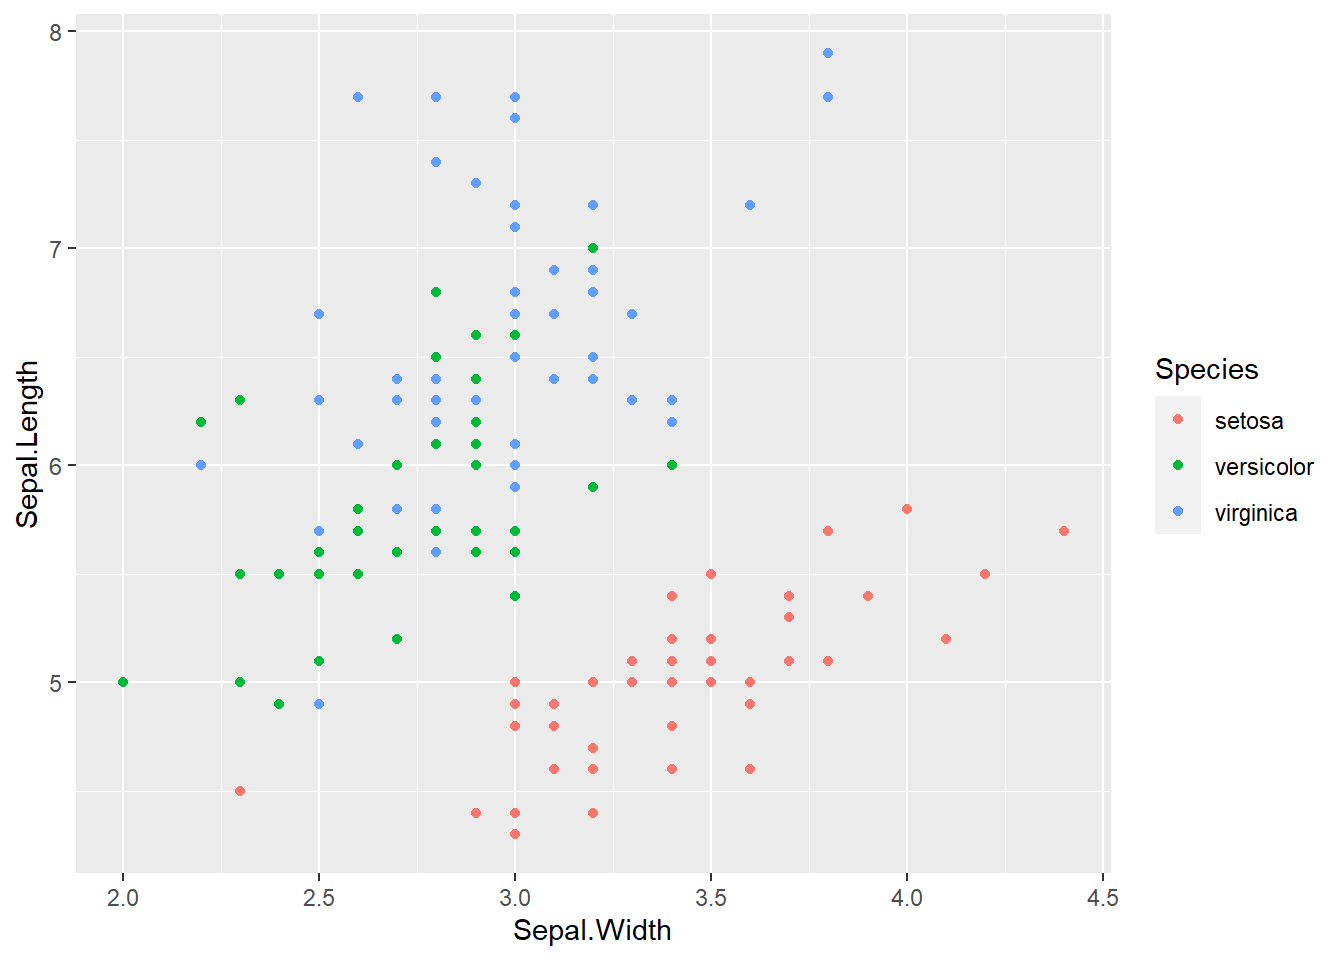
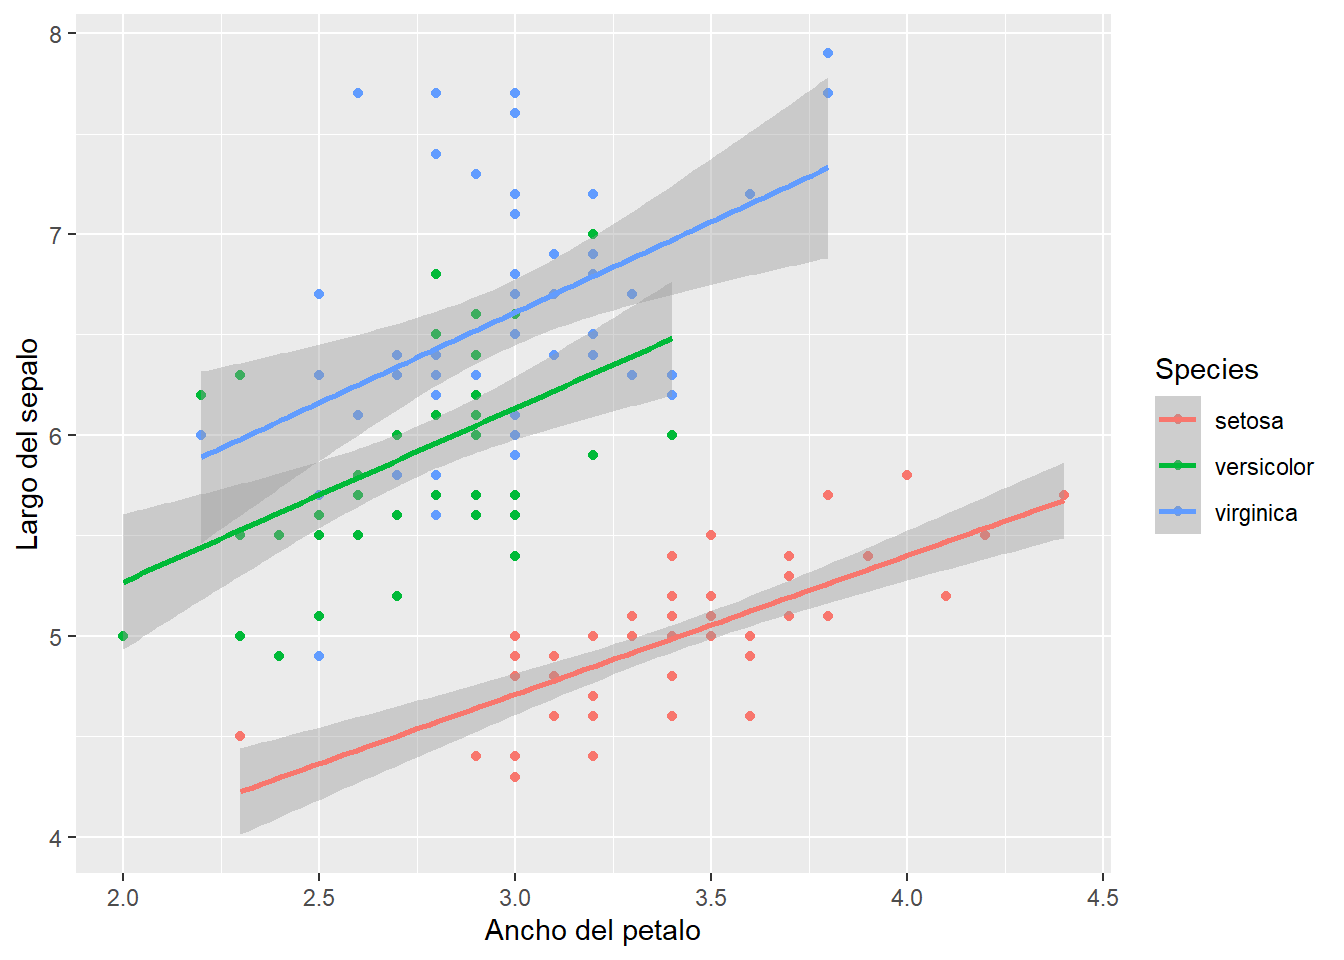
Gráfico

diff --git a/content/post/2020-12-04-gráfico/index.html b/content/post/2020-12-04-gráfico/index.html
@@ -28,5 +28,6 @@ tags:
 ## x dplyr::filter() masks stats::filter()
 ## x dplyr::lag()    masks stats::lag()</code></pre>
 <pre class="r"><code>data(&quot;iris&quot;)
-ggplot(iris, aes(x=Sepal.Width,y=Sepal.Length))+geom_point(aes(color=Species))</code></pre>
+ggplot(iris, aes(x=Sepal.Width,y=Sepal.Length))+geom_point(aes(color=Species))+
+  labs(x=&quot;Ancho del petalo&quot;,y=&quot;Largo del sepalo&quot;) + geom_smooth(method = lm,formula = y~x, aes(color=Species))</code></pre>
 <p><img src="index_files/figure-html/unnamed-chunk-1-1.png" width="672" /></p>
